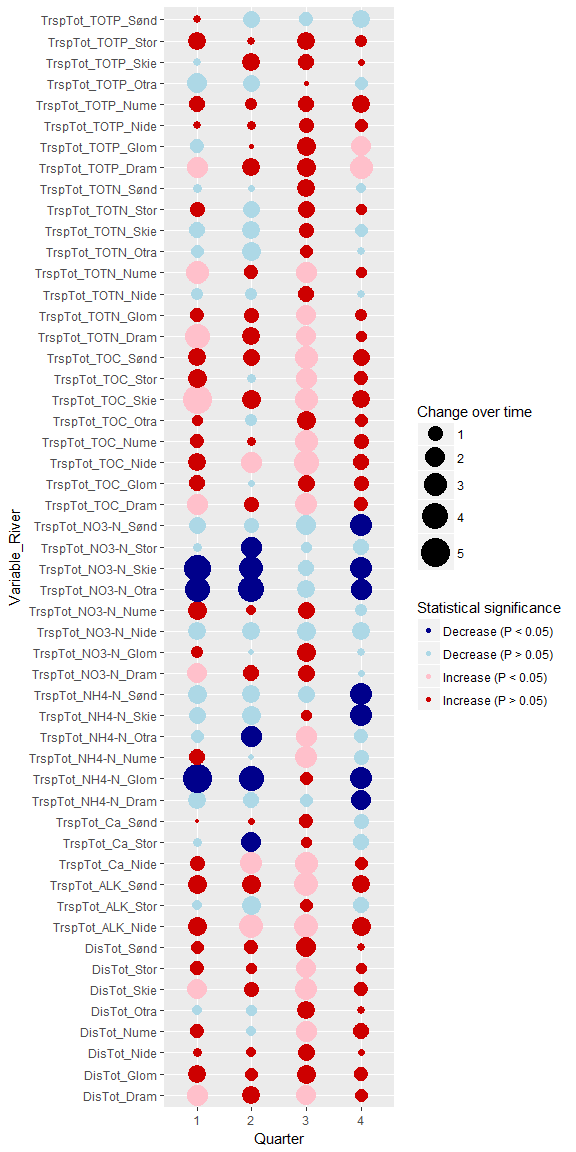
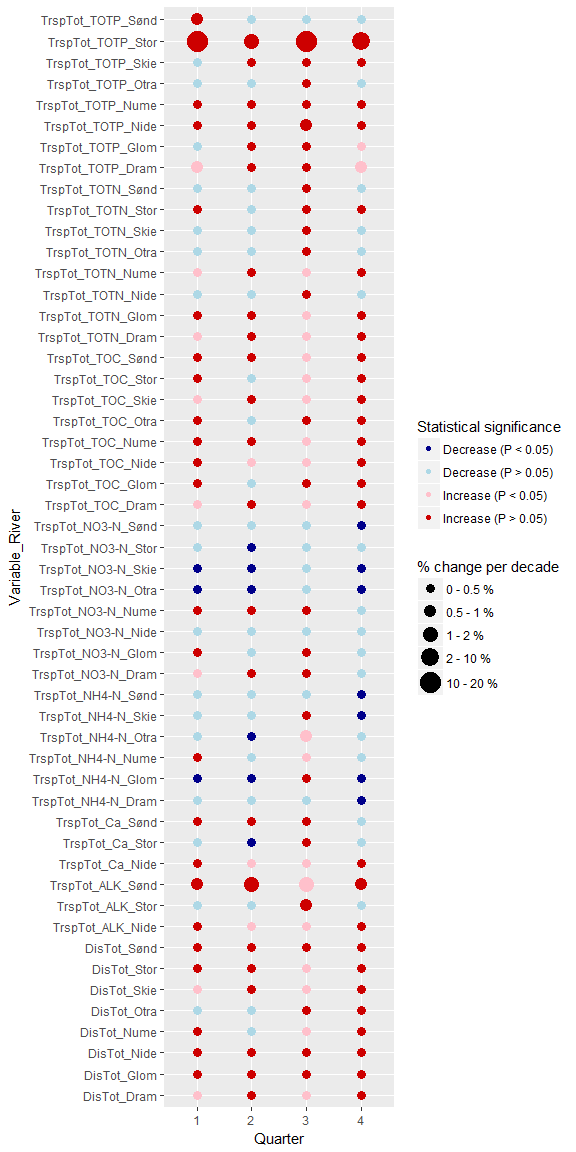
Improve alternative plot

diff --git a/03_Collect_annual_data.md b/03_Collect_annual_data.md
@@ -279,13 +279,21 @@ df3 <- df2 %>%
   arrange(StVarQuarter, Year)
 ```
 
-### e. Test regression of every station / varibale / quarter
+### e. Test regression of every station / variable / quarter
 
 ```r
 get_reg_coef <- function(df) {
   lm <- lm(Mean ~ Year, data = df)
-  subset(tidy(lm), term == "Year")
+  result <- subset(tidy(lm), term == "Year")
+  # browser()
+  result$Meanvalue <- mean(df$Mean)
+  result$Perc_change_per_decade <- with(result, statistic/Meanvalue*10*100)
+  result
   }
+
+# Test
+# get_reg_coef(df3 %>% filter(StVarQuarter %in% "Dram_DisTot_2" & !is.na(Mean)))
+
 
 m_yeareffect <- df3 %>%
   filter(!is.na(Mean)) %>%
@@ -322,22 +330,28 @@ substr_mid <- function(txt, n_start, n_to_remove){
   substr(txt, n_start, nchar(txt) - n_to_remove)
 }
 
-substr_right("abcd", 2)
-```
+# Sorts a character vector as the first 
+sort_char_as_num <- function(txt){
+  num <- stringr::str_extract(txt, "([^[[:blank:]]]+)")  %>% as.numeric()
+  txt[order(num)]
+}
 
-```
-## [1] "cd"
-```
+# Test
+# sort(c("10 %", "5 %", "20 %"))              # ordinary sort:    "10 %" "20 %" "5 %"
+# sort_char_as_num(c("10 %", "5 %", "20 %"))  # sort_char_as_num: "5 %"  "10 %" "20 %"
 
-```r
-substr_left(c("abcd", "abcdefgh"), 2)
-```
+factorlevels_from_num <- function(txt){
+  factor(txt, levels = sort_char_as_num(unique(txt)))
+  }
 
-```
-## [1] "ab"     "abcdef"
-```
+# Test
+# substr_right("abcd", 2)
+# substr_left(c("abcd", "abcdefgh"), 2)
+# substr_mid(c("abcd", "abcdefgh"), 2, 2)
 
-```r
+# quantile(m_yeareffect$Perc_change_per_decade)  %>% round(1)
+# quantile(m_yeareffect$Perc_change_per_decade %>% abs())  %>% round(1)
+
 # Make new data set as we need Quarter as a separate variable in the plot.
 # Also we want to plot in the order of Variable_River, not River_Variable (keep each variable together in plot)
 df <- m_yeareffect %>%
@@ -350,12 +364,38 @@ df <- m_yeareffect %>%
                      statistic < 0 & p.value > 0.05 ~ "Decrease (P > 0.05)",
                      statistic > 0 & p.value > 0.05 ~ "Increase (P > 0.05)",
                      statistic > 0 & p.value < 0.05 ~ "Increase (P < 0.05)")
-  )
-gg <- ggplot(df, aes(Quarter, Variable_River, size = abs(statistic), color = Slope_category)) +
+  ) %>%
+  mutate(Perc_change_category = 
+           case_when(Perc_change_per_decade < 0.5 ~ "0 - 0.5 %",
+                     Perc_change_per_decade >= 0.5 &  Perc_change_per_decade < 1 ~ "0.5 - 1 %",
+                     Perc_change_per_decade >= 1 &  Perc_change_per_decade < 2 ~ "1 - 2 %",
+                     Perc_change_per_decade >= 2 &  Perc_change_per_decade < 10 ~ "2 - 10 %",
+                     Perc_change_per_decade >= 10 &  Perc_change_per_decade < 20 ~ "10 - 20 %") 
+  )  %>%
+  mutate(Perc_change_category = factorlevels_from_num(Perc_change_category))
+
+
+xtabs(~Perc_change_category, df)
+```
+
+```
+## Perc_change_category
+## 0 - 0.5 % 0.5 - 1 %   1 - 2 %  2 - 10 % 10 - 20 % 
+##       194         8         3         1         2
+```
+
+```r
+gg1 <- ggplot(df, aes(Quarter, Variable_River, size = abs(Perc_change_per_decade), color = Slope_category)) +
   geom_point() +
-  scale_size_continuous("Change over time", range = c(1, 10)) +
+  scale_size_continuous("% change per decade", breaks = c(0, 1, 2, 5, 10, 20)) +
   scale_color_manual("Statistical significance", values = c("darkblue", "lightblue", "pink", "red3"))
-gg
+# gg1
+  
+gg2 <- ggplot(df, aes(Quarter, Variable_River, size = Perc_change_category, color = Slope_category)) +
+  geom_point() +
+  scale_size_manual("% change per decade", values = 3:8) +
+  scale_color_manual("Statistical significance", values = c("darkblue", "lightblue", "pink", "red3"))
+gg2
 ```
 
 ![](03_Collect_annual_data_files/figure-html/unnamed-chunk-9-1.png)<!-- -->
